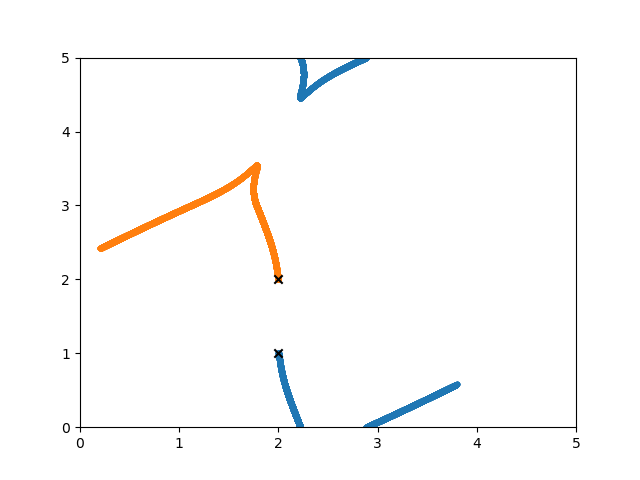
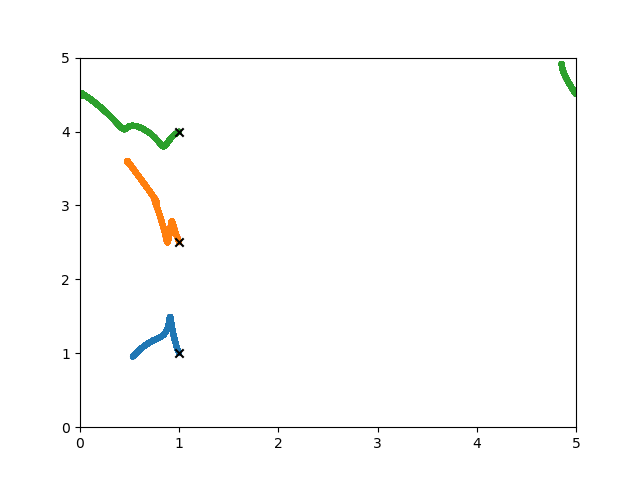
kloten met initial pos

diff --git a/MolecularDynamics.py b/MolecularDynamics.py
@@ -2,8 +2,10 @@ import numpy as np
 import matplotlib.pyplot as plt
 import scipy
 import scipy.constants
+from scipy.stats import qmc
 
-print("yea")
+
+# print("yea")
 class Simulation:
     k_B = scipy.constants.k
     A = 1e-10
@@ -29,6 +31,18 @@ class Simulation:
         self.positions = np.zeros([timesteps, n_particles, dims])
         self.velocities = np.zeros([timesteps, n_particles, dims])
         self.F_matrix =  np.zeros([n_particles, n_particles, dims])
+        self.E_potential = np.zeros(timesteps)
+        self.E_kinetic = np.zeros(timesteps)
+        self.E_total = np.zeros(timesteps)
+
+    def set_pseudorandom(self):
+        pos_available = (self.L // 1.5) ** 2
+        if pos_available < self.n_particles:
+            msg = f"Too many particles, default to {pos_available}"
+            print("\033[91m {}\033[00m".format(msg))
+            n_particles = pos_available
+
+        np.random.normal(0, 0.2, [self.n_particles, self.dims])
 
     def set_initial_conditions(self, random=False):
         if self.n_particles > 3:
@@ -37,12 +51,13 @@ class Simulation:
             self.positions[0,:,:] = np.random.uniform(0, self.L, [self.n_particles, self.dims])
             # self.velocities[0,:,:] = np.random.normal(0, 1, [self.n_particles, self.dims])
         else:
-            self.positions[0,0,:] = [2, 1]
-            self.positions[0,1,:] = [2, 2]
+            self.positions[0,0,:] = [1, 1]
+            self.positions[0,1,:] = [1, 2.5]
             if self.n_particles > 2:
-                self.positions[0, 2, :] = [3,4]
-            self.velocities[0,0,:] = [0.1, 0]
-            self.velocities[0,1,:] = [-0.1, 0]
+                self.positions[0, 2, :] = [1,4]
+            # self.velocities[0,0,:] = [0.2, 0]
+            # self.velocities[0,1,:] = [-0.2, 0]
+            self.velocities[0,:,:] = np.random.normal(0, 0.5, [self.n_particles, self.dims])
 
     def U(self, r):
         U = 4*self.epsilon * ((self.sigma/r)**12 - (self.sigma/r)**6)
@@ -53,13 +68,19 @@ class Simulation:
         U_ = 4 * ((1/r)**12 - (1/r)**6)
         return U_
 
+    def get_U(self, xi, xj):
+        dx = (xi - xj + self.L/2) % self.L - self.L/2
+        r = np.sqrt(np.sum(dx * dx))
+        return U_(r)
+
     def grad_U(self, r):
         return 4 * ((-12) * r**(-13) + 6 * r**(-7))
         # return grad_U
 
     def Force_(self, xi, xj):
         # print('pos: ', xi, xj)
-        dx = xi - xj
+        # dx = xi - xj
+        dx = (xi - xj + self.L/2) % self.L - self.L/2
         if self.dims == 1:
             r = dx
         else:
@@ -89,7 +110,7 @@ class Simulation:
         self.positions[ti+1, :, :] = (pos0 + vel0 * self.dt) % self.L
 
         # print("step ", ti, pos0, vel0, self.positions[ti+1, :, :])
-
+        U_tot = 0
         for ni in range(self.n_particles):      # TODO change to iterate over pos-n ?
             for nj in range(self.n_particles):
                 if ni == nj:
@@ -102,21 +123,41 @@ class Simulation:
                     # print("f: ", F)
                     self.F_matrix[ni, nj] = F
                 # F_tot += F
+                # U_tot += get_U(pos0[ni], pos0[nj])
                     # F_matrix[ni, nj] = F_tot
             
             # print(self.F_matrix.shape)
-            self.velocities[ti+1,: , :] = vel0 + self.F_matrix.sum(axis=1) * self.dt / self.m
+        self.E_potential[ti] = U_tot
+        MAX = 1e3
+        self.velocities[ti+1,: , :] = np.clip(vel0 + self.F_matrix.sum(axis=1) * self.dt / self.m, a_min=-MAX, a_max=MAX)
+
+
+    def Verlet_step(self):
+        pass
 
     def plot_positions(self):
+        alphas = np.linspace(0.1, 1, self.timesteps)
+        # print(alpha)
         for ni in range(self.n_particles):
-            plt.scatter(self.positions[:, ni, 0], self.positions[:, ni, 1], marker='.')
+            plt.scatter(self.positions[:, ni, 0], self.positions[:, ni, 1], marker='.',
+                alpha=alphas)
             # plt.scatter(self.positions[1, 0, :], self.positions[1, 1, :], c='r', marker='.')
-            plt.scatter(self.positions[0, ni, 0], self.positions[0, ni, 1], c='k', marker='x')
+            plt.scatter(self.positions[0, ni, 0], self.positions[0, ni, 1], c='k', marker='x',
+                zorder=5)
             # plt.scatter(self.positions[1, 0, 0], self.positions[1, 1, 0], c='r', marker='x')
         plt.xlim(0,self.L)
         plt.ylim(0,self.L)
         plt.savefig("posplot.png")
         print("posplot.png")
+    
+    def plot_energies(self):
+        t = np.arange(0, self.timesteps, self.dt)
+        plt.plot(t, self.E_potential)
+        plt.plot(t, self.E_kinetic)
+        plt.plot(t, self.E_total)
+        plt.savefig('Eplot.png')
+        print('Eplot.png')
+        
 
     def run_simulation(self):
         self.set_initial_conditions(random=False)
@@ -125,9 +166,10 @@ class Simulation:
             # print(vel0)
             # print(pos0.shape)
             self.Euler_step(ti, pos0, vel0)
+        # print(self.velocities[-1])
 
 
 
-sim = Simulation(n_particles=2, L=5, dt=0.001, timesteps=10000)
+sim = Simulation(n_particles=3, L=5, dt=0.0001, timesteps=30000)
 sim.run_simulation()
 sim.plot_positions()
